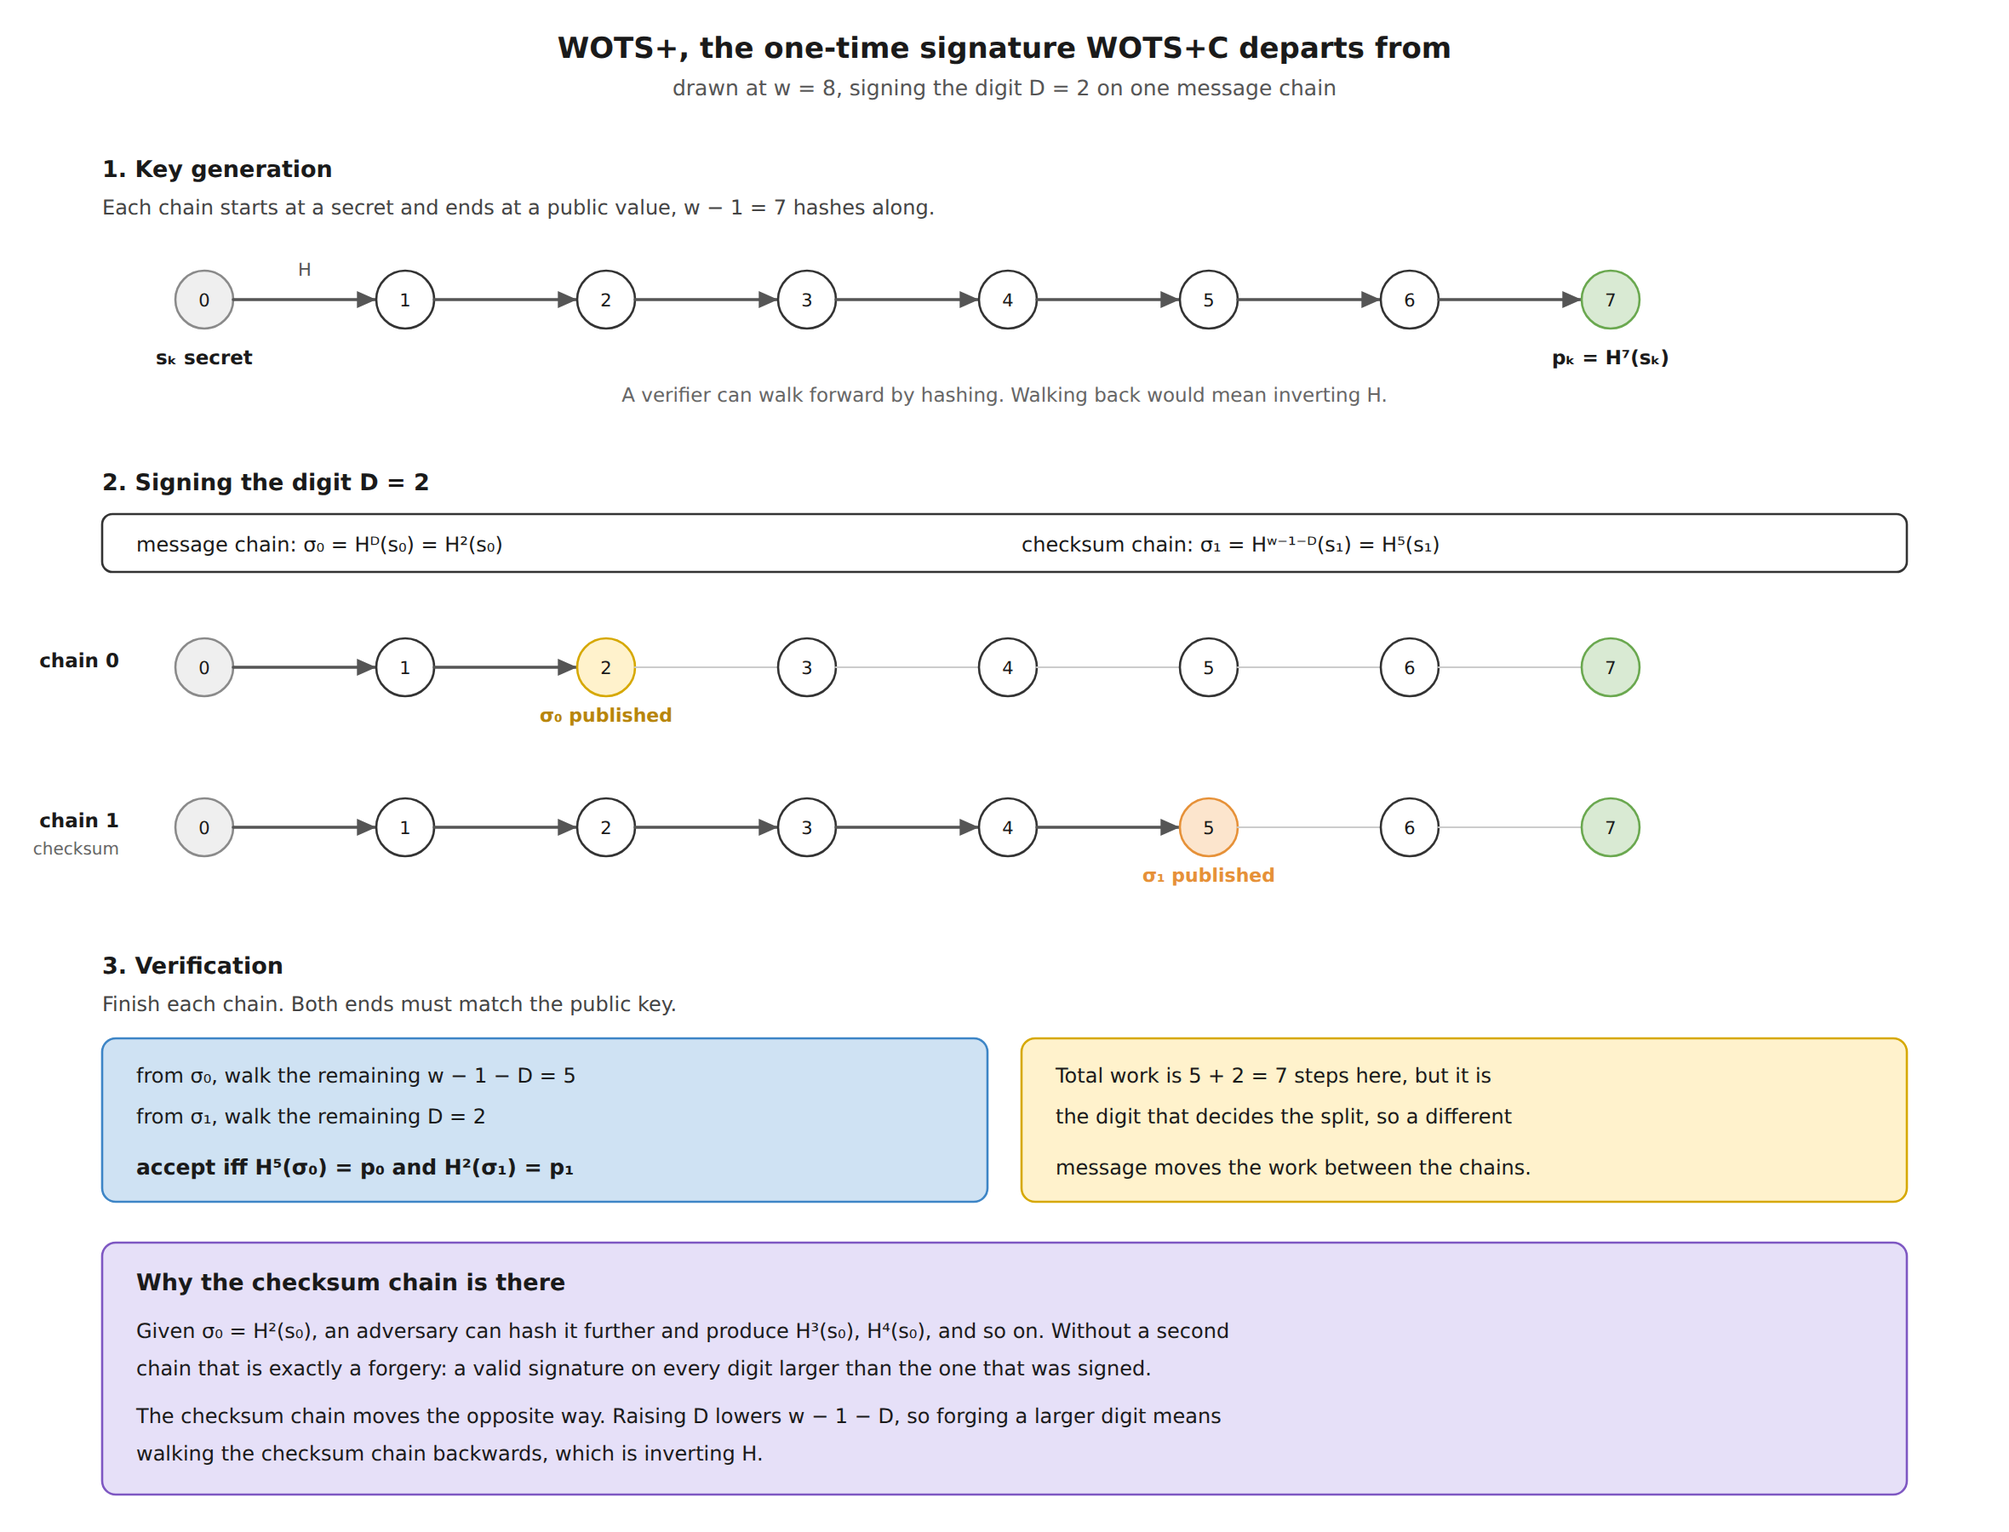
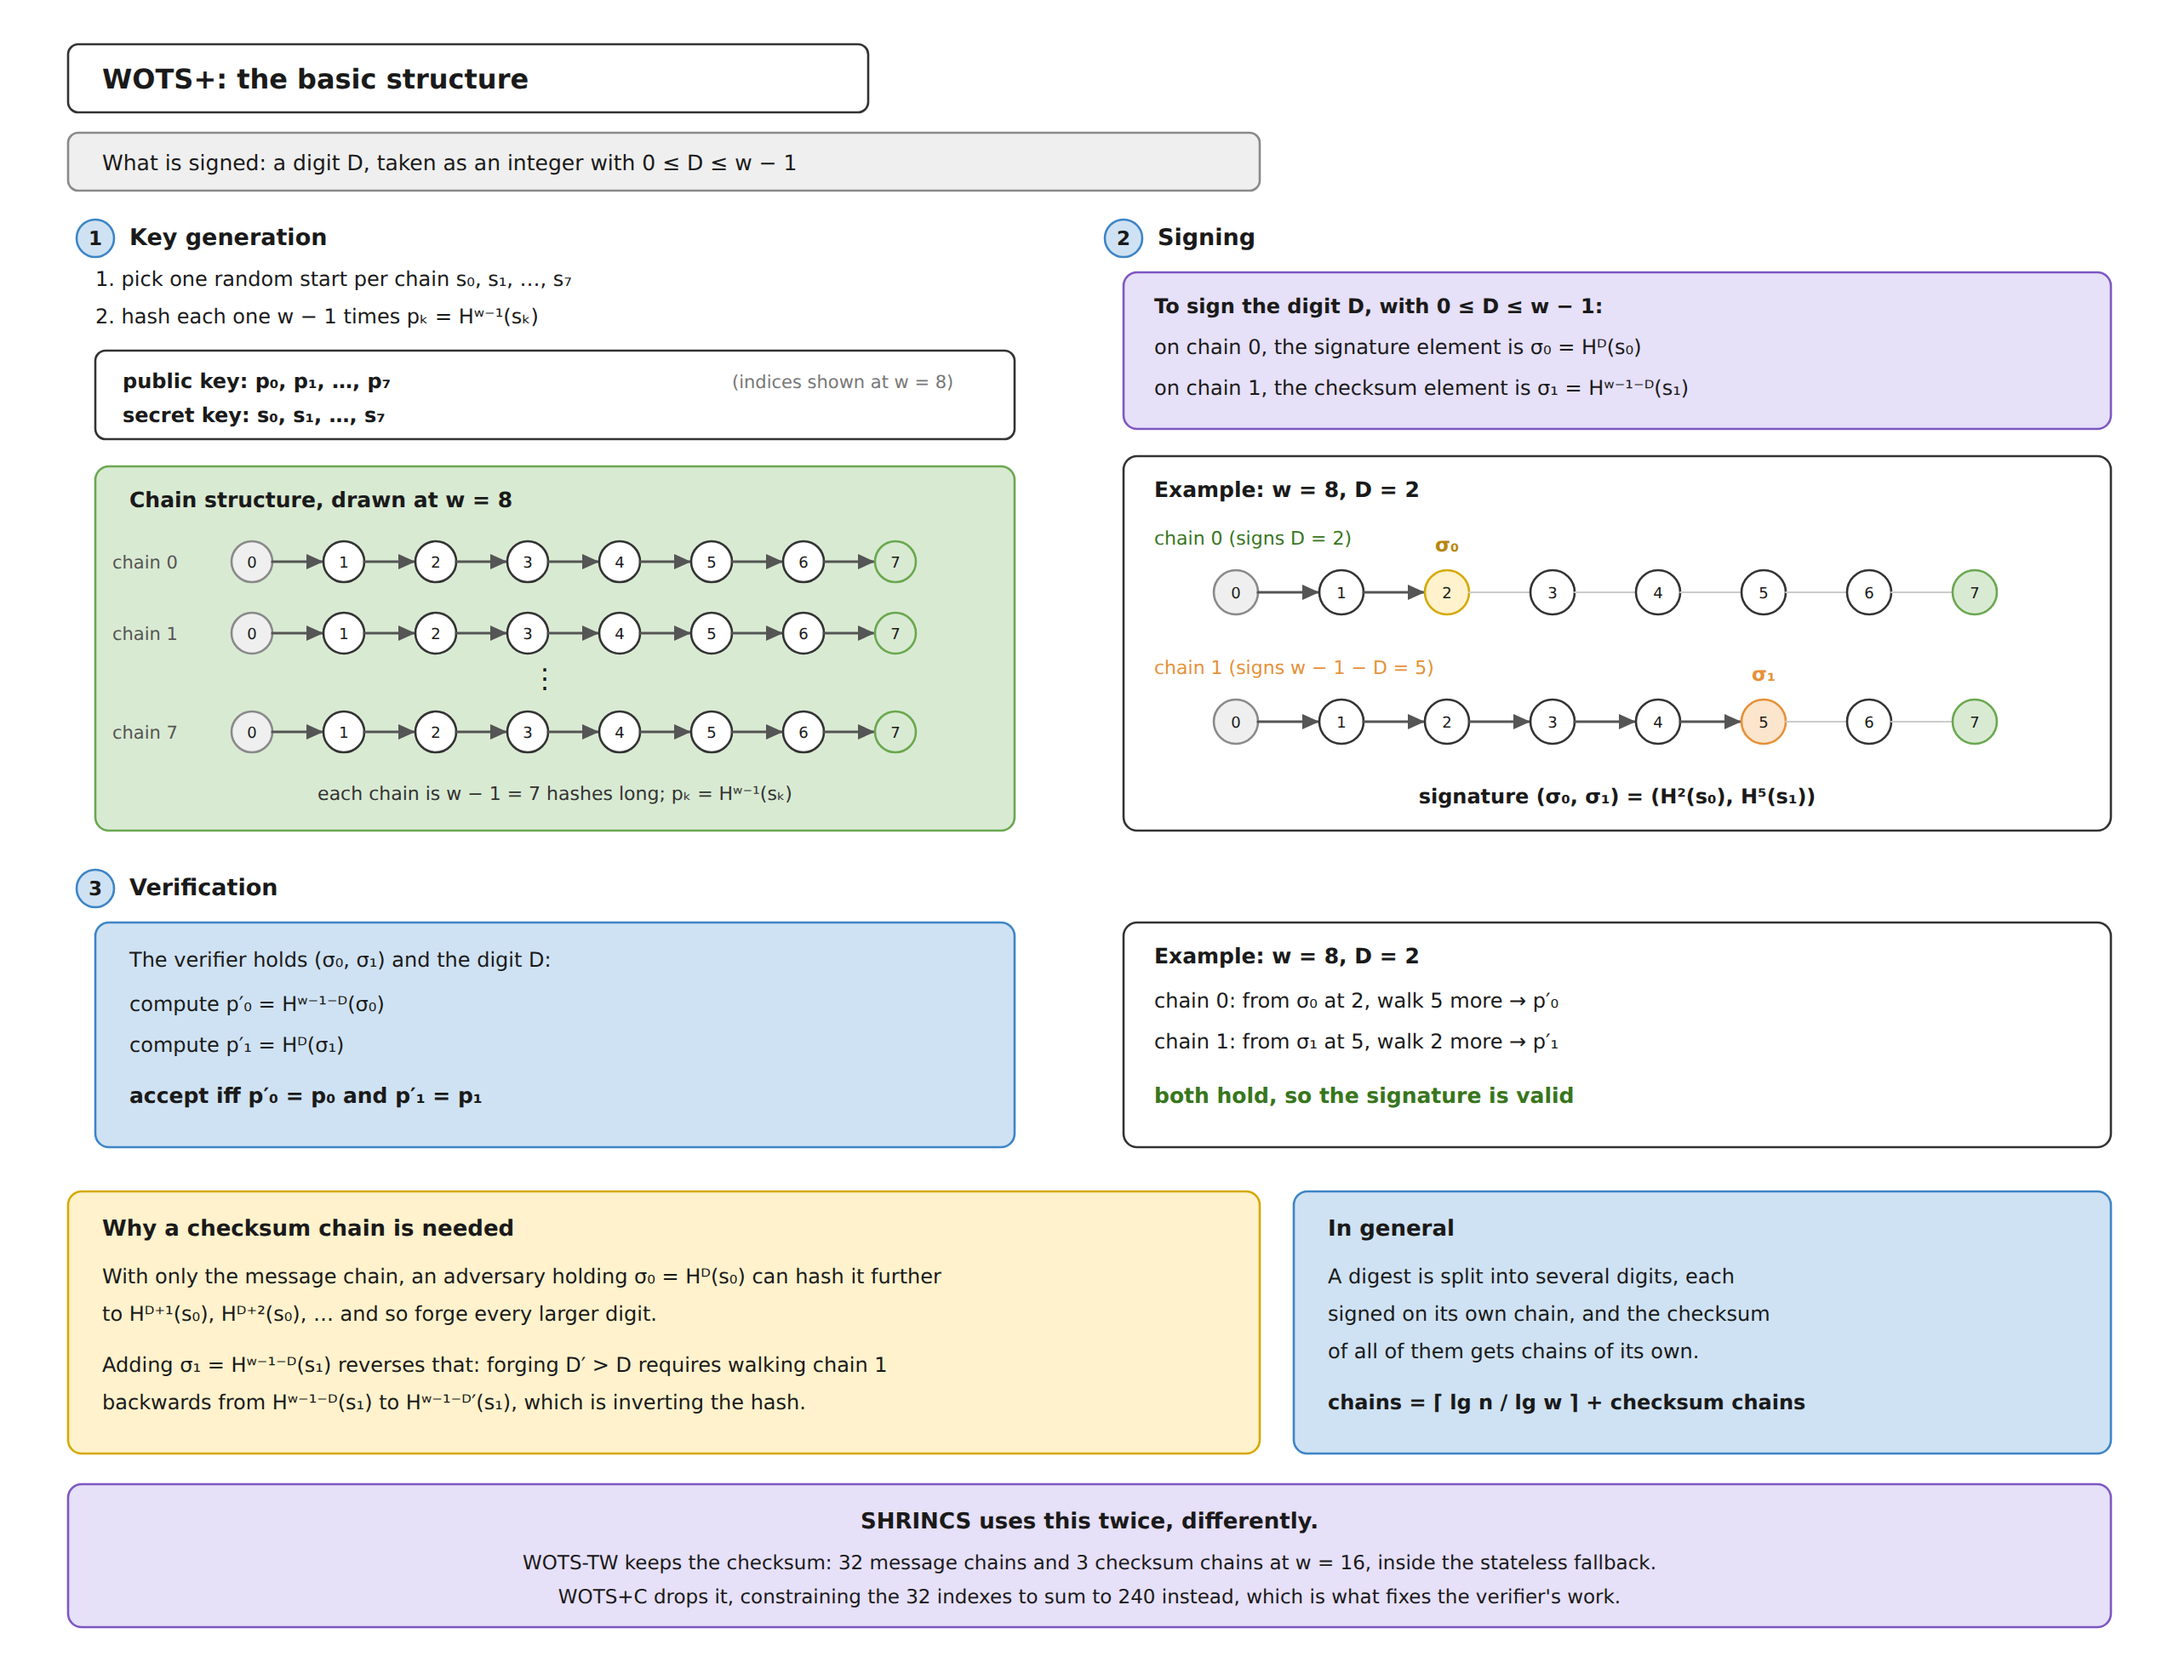
Set out XMSS too, and redraw WOTS+ in the same three-part shape
The note compared FXMSS against XMSS in a table before saying what XMSS is.
It now builds that first: one-time keys at the leaves of a Merkle tree, the
root as the public key, and a signature carrying the one-time signature, the
leaf index and one sibling per level. A figure works it at height 3 signing
leaf 2, with the climb spelled out.

The WOTS+ figure is restructured to the same three numbered parts -- key
generation, signing, verification -- with the key pair shown as its own box,
several chains rather than one, and worked examples beside each part. The
two figures now share a shape, which is the point: XMSS is WOTS+ keys at the
leaves, and reading them in sequence should feel like one construction
rather than two.

Two errors caught while checking the figures against arithmetic rather than
against the drawing. The verifier's side-choice summary said "right, left,
left" where i = 2 is 010 and the node is the left, right then left child;
the step equations beside it were right, so only the summary was wrong.
And LaTeX-style subscripts do not render in SVG, so v_{i,0} and s_{w-1}
appeared literally.

diff --git a/shrincs-construction.md b/shrincs-construction.md
@@ -408,6 +408,24 @@ that 32 uniform four-bit values sum to their mean. Both step counts are the sing
 
 ## 8. FXMSS: an XMSS of signer-chosen shape
 
+### XMSS, briefly
+
+A one-time key signs once, so a scheme that signs more than once needs many of them and
+a way to publish them all as one value. XMSS is the standard answer: put the hashes of
+the one-time public keys at the leaves of a Merkle tree and publish the root.
+
+A signature then carries three things. The one-time signature itself; the **index** of
+the leaf that made it; and the **authentication path**, one sibling per level from that
+leaf to the root. A verifier recovers the leaf from the one-time signature and climbs,
+combining with each sibling in turn, and the index tells it which side to combine on.
+Reaching the published root is what verification means.
+
+[![XMSS at height 3, signing with leaf 2: the tree, the authentication path, what the signature carries, and the verifier's climb](https://raw.githubusercontent.com/AppliedPQC/pqc-research/main/figures/shrincs-construction/xmss.png)](https://raw.githubusercontent.com/AppliedPQC/pqc-research/main/figures/shrincs-construction/xmss.png)
+
+Each leaf may be used once, which is what makes XMSS stateful: the signer has to record
+which leaves are spent. That is the constraint FXMSS inherits and the state counter of
+section 9 manages, and it is why the scheme carries a stateless fallback at all.
+
 ### Differences from XMSS
 
 | | XMSS, inside the stateless path | **FXMSS**, the stateful path |
